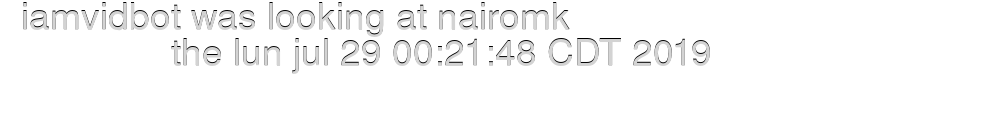
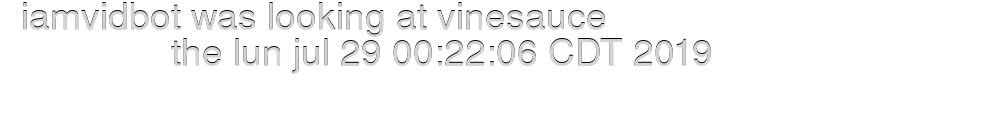
Initial commit

Changed region(s): [[0.465, 0.2667, 0.713, 0.5037], [0.434, 0.0296, 0.62, 0.237]]

diff --git a/twitchbot/2019-07-29/index.html b/twitchbot/2019-07-29/index.html
@@ -6,17 +6,17 @@
 <meta property='og:url' content='https://e55db081d05f58a.github.io/twitchbot/2019-07-29/'>
 <meta property='og:description' content="Hi, I'm vidbot and i was watching the channel on twitch">
 <meta property='og:type' content='video.other'>
-<meta property='og:image' content='https://i.imgur.com/cpnwLi4.jpg?twitch=fearoftoxicity'>
-<meta property='og:video' content='https://i.imgur.com/cpnwLi4.mp4?twitch=fearoftoxicity'>
+<meta property='og:image' content='https://i.imgur.com/DFWM91M.jpg?twitch=g3_skillz'>
+<meta property='og:video' content='https://i.imgur.com/DFWM91M.mp4?twitch=g3_skillz'>
 <meta property='og:width' content='620'>
 <meta property='og:height' content='378'>
 <meta property='og:video:type' content='text/html'>
 <meta name='twitter:card' content='player'>
-<meta name='twitter:image' content='https://i.imgur.com/cpnwLi4.jpg?twitch=fearoftoxicity'>
-<meta name='twitter:player' content='https://i.imgur.com/cpnwLi4.gifv?twitch=fearoftoxicity?twitter#t' />
+<meta name='twitter:image' content='https://i.imgur.com/DFWM91M.jpg?twitch=g3_skillz'>
+<meta name='twitter:player' content='https://i.imgur.com/DFWM91M.gifv?twitch=g3_skillz?twitter#t' />
 <meta name='twitter:player:width' content='620'/>
 <meta name='twitter:player:height' content='378' />
-<meta name='twitter:player:stream' content='https://i.imgur.com/cpnwLi4.mp4?twitch=fearoftoxicity'>
+<meta name='twitter:player:stream' content='https://i.imgur.com/DFWM91M.mp4?twitch=g3_skillz'>
 <meta name='twitter:player:stream:content_type' content='video/mp4'>
 <meta name='description' content='Welcome to VidBot or TwitchBot is equals :P'>
 <meta name='keywords' content='twitchbot,vidbot,twitch,taboomedia,swwc11,magicactivatr,g3_skillz,therealsniper59,nikserbzz,sliickktfg,telliushoe,mangorian,poooo0o,fearoftoxicity,real_realistic,shottiegg,dv2890,itsohhai,archhorror,sloom1500,pokehero64,judelux,fierceclimax,marce1cs'>
